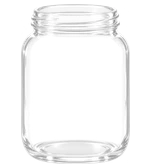
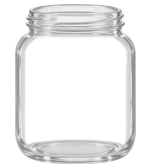
Clear jar: TikFinity proportions (w/h 0.76) and grey glass tone

Changed region(s): [[0.0789, 0.0, 0.8947, 0.9821]]

diff --git a/packages/overlay/public/giftjar.html b/packages/overlay/public/giftjar.html
@@ -92,11 +92,11 @@
         hw: (y) => y > -40 ? 90 + Math.sqrt(Math.max(0, 1600 - (y + 40) ** 2)) : y > -260 ? 130 : y > -300 ? 92 + 38 * (0.5 + 0.5 * Math.cos(Math.PI * (-260 - y) / 40)) : 92,
         openY: -338, openHW: 92, rimHW: 102, topY: -362, fullY: -290, maxHW: 130,
       },
-      clear: { // โหลแก้วใสสมจริง (ภาพ GPT พื้นใส docs/clearjar/) — ขนาดคงที่เท่าโหล TikFinity (สูง ~285px ทุกจอ) · ผนังด้านในวัดจากภาพ
-        prof: [[-312, 88], [-300, 96], [-292, 104], [-285, 110], [-276, 114], [-266, 116], [-58, 116], [-46, 110], [-36, 98]],
+      clear: { // โหลแก้วใสสมจริง (ภาพ GPT พื้นใส docs/clearjar/) — สัดส่วน/ขนาด/โทนสีเท่าโหล TikFinity (สูง ~285px ทุกจอ, กว้าง:สูง 0.76) · ผนังด้านในวัดจากภาพ
+        prof: [[-312, 98], [-300, 107], [-292, 115], [-285, 122], [-276, 127], [-266, 130], [-58, 130], [-46, 124], [-36, 110]],
         hw: (y) => profileHW(SHAPES.clear.prof, y),
-        openY: -312, openHW: 88, rimHW: 98, topY: -380, fullY: -282, maxHW: 116, floor: -36, backA: 0.18, noClear: true, noShadow: true, px: 0.75, center: true,
-        image: { src: 'themes/jar-clear.webp', back: 'themes/jar-clear-back.webp', x: -129.6, y: -380.0, w: 259.2, h: 380.0 },
+        openY: -312, openHW: 98, rimHW: 108, topY: -380, fullY: -282, maxHW: 130, floor: -36, backA: 0.18, noClear: true, noShadow: true, px: 0.75, center: true,
+        image: { src: 'themes/jar-clear.webp', back: 'themes/jar-clear-back.webp', x: -143.6, y: -380.0, w: 287.2, h: 380.0 },
       },
       bowl: { // โหลทรงกลมป่อง ปากกว้าง (โหลปลา)
         hw: (y) => 170 * Math.sqrt(Math.max(0, 1 - ((y + 140) / 150) ** 2)),
